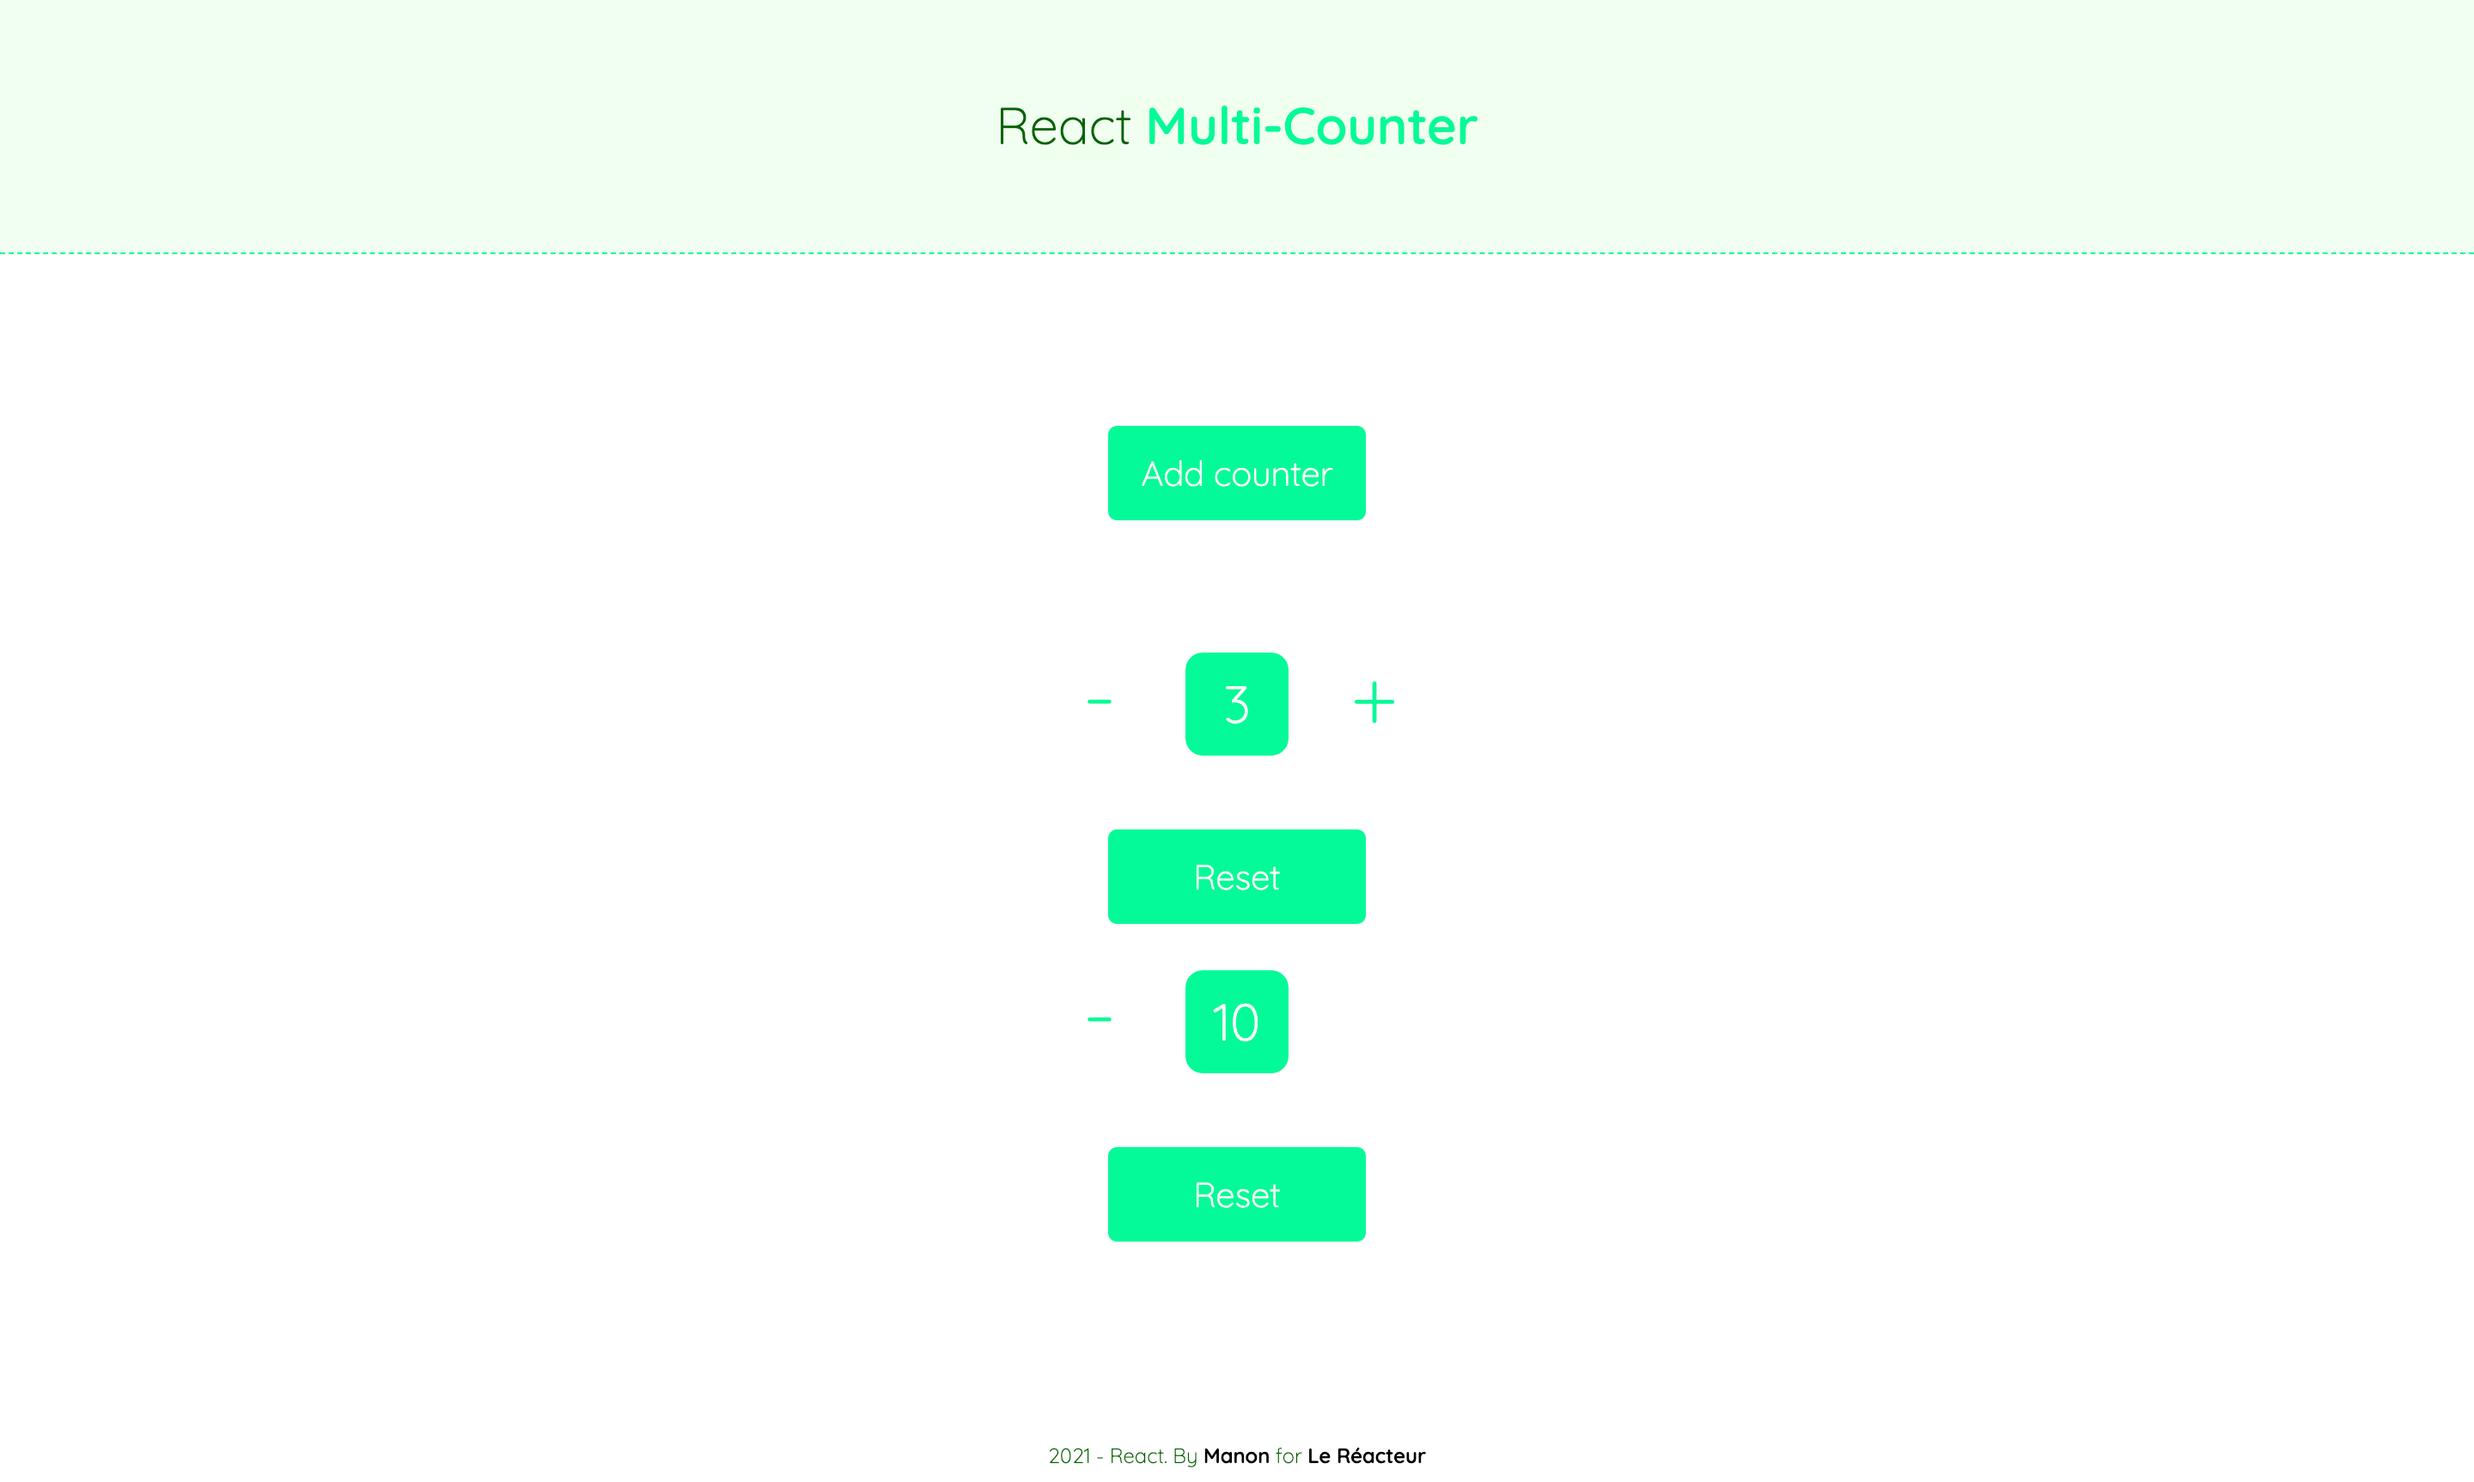
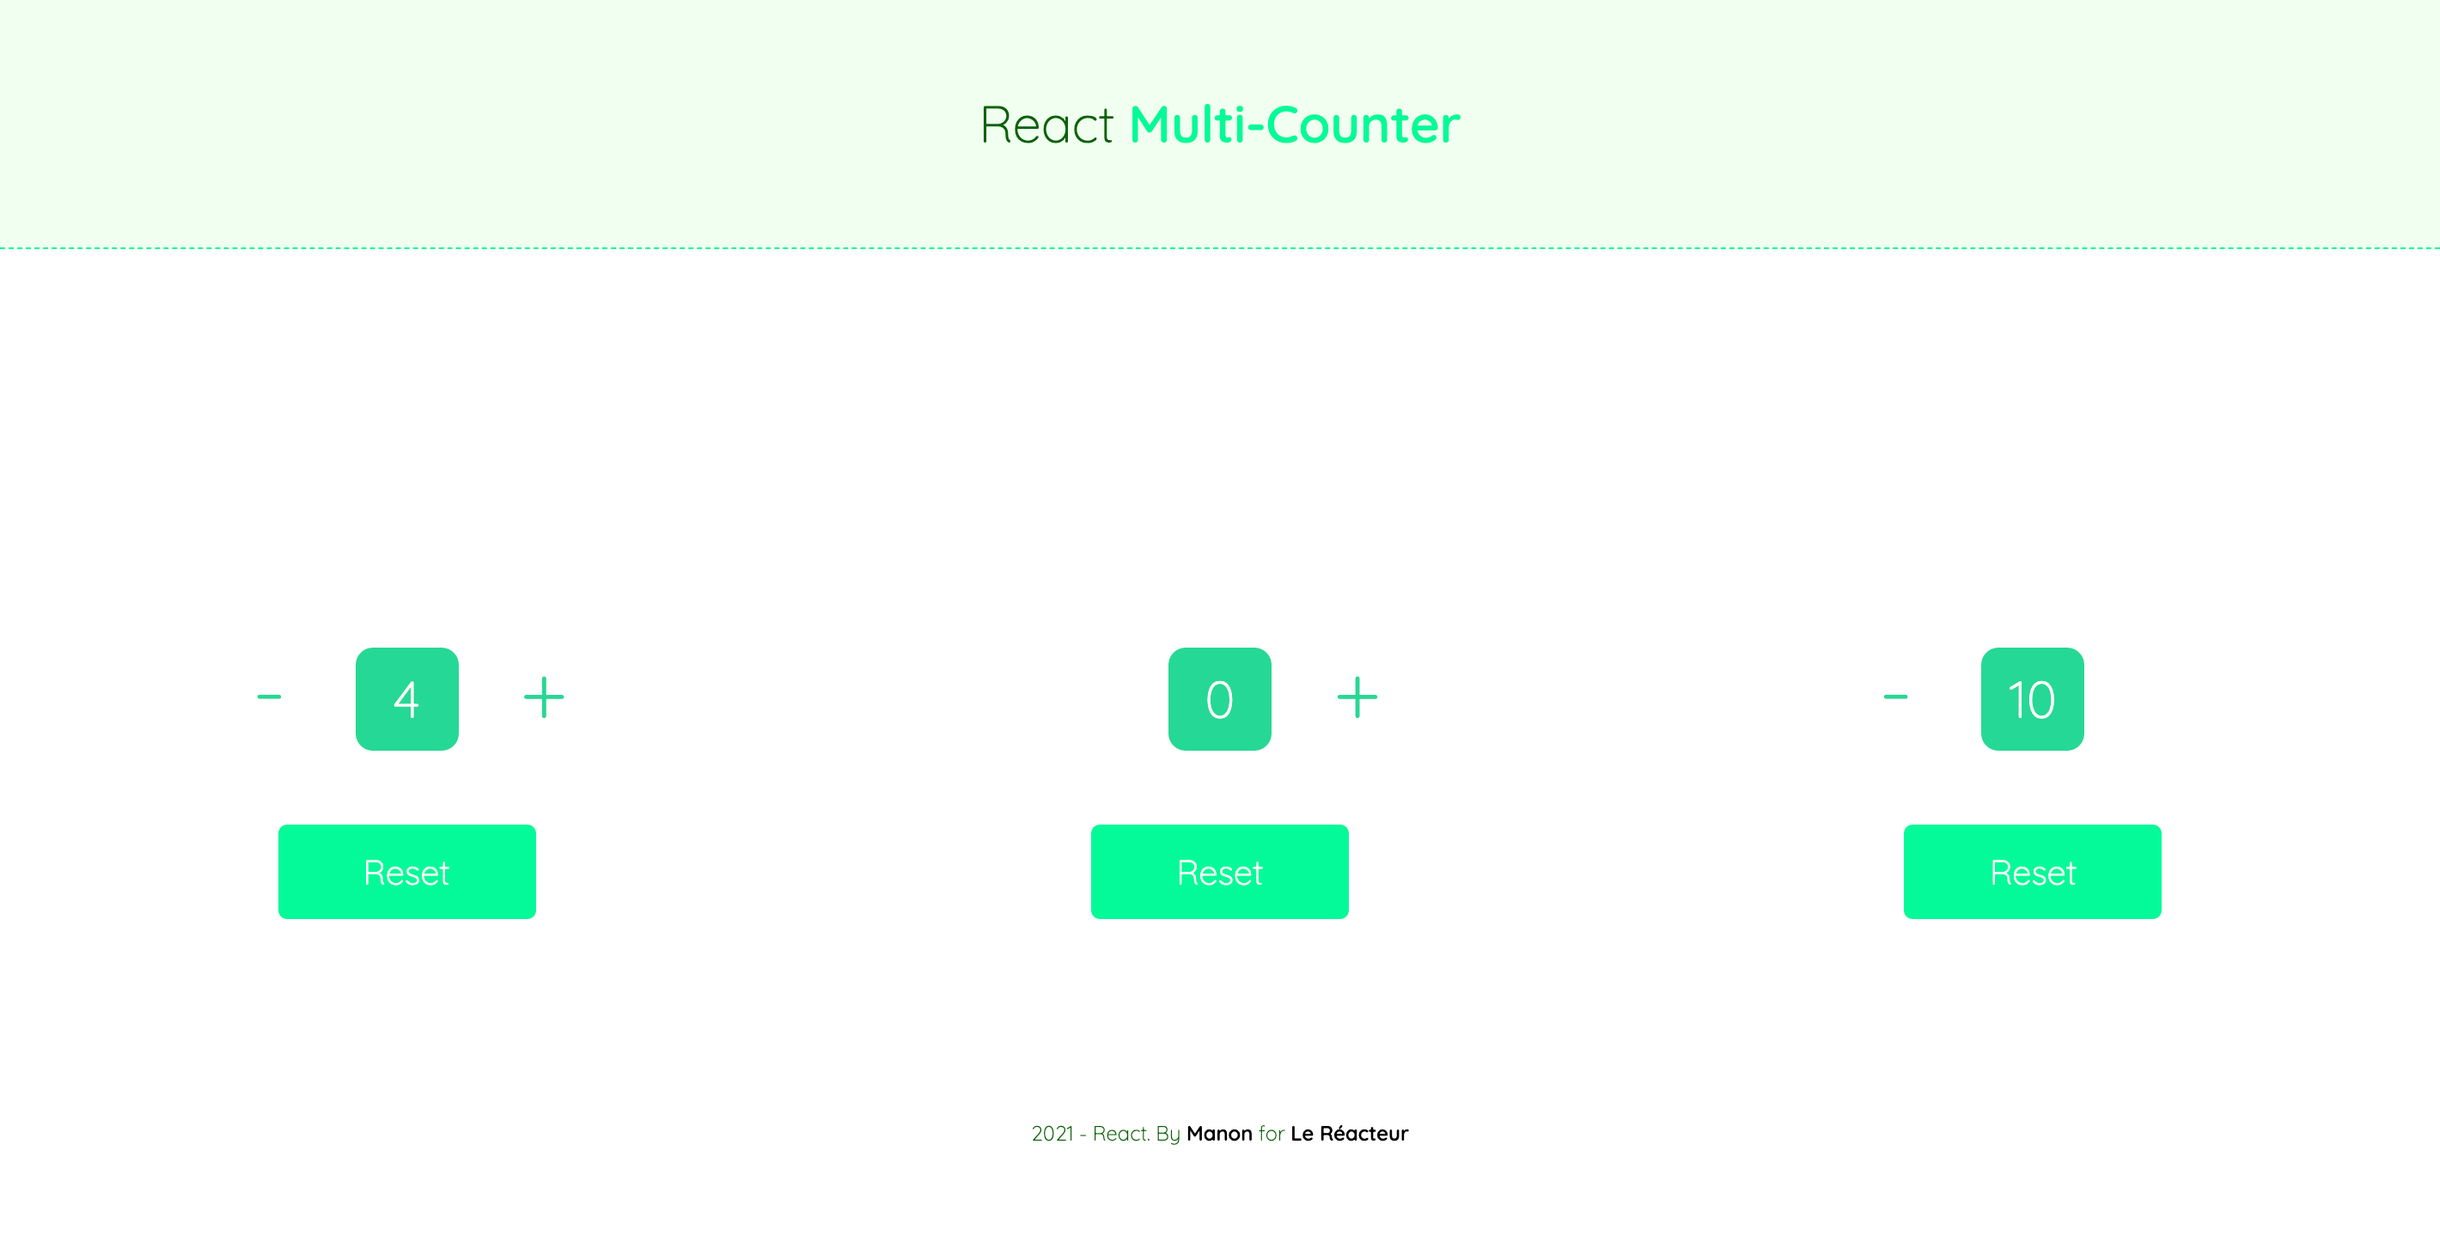
responsive & horizontal counter

diff --git a/src/App.css b/src/App.css
@@ -48,6 +48,9 @@ header .wrapper {
 }
 
 /* Counter */
+.container {
+  display: flex;
+}
 button {
   cursor: pointer;
   background-color: lawngreen;
@@ -57,7 +60,6 @@ button {
   border-radius: 5px;
   font-family: "Quicksand", sans-serif;
   font-size: 20px;
-  background-color: #00fa9a;
 }
 .btn-minus,
 .btn-plus,
@@ -69,19 +71,25 @@ button {
   width: 100px;
   height: 100px;
   background-color: white;
-  color: #00fa9a;
+  color: #28d895;
   font-size: 50px;
 }
 .btn-add-counter {
+  background-color: #00fa9a;
   margin-bottom: 50px;
   width: 150px;
 }
 .btn-reset {
+  background-color: #00fa9a;
   width: 150px;
   margin-top: 30px;
 }
+.btn-add-counter:hover,
+.btn-reset:hover {
+  opacity: 80%;
+}
 .bloc-2 span {
-  background-color: #00fa9a;
+  background-color: #28d895;
   display: inline-block;
   color: white;
   font-size: 30px;
@@ -97,7 +105,21 @@ footer {
   font-size: 12px;
   text-align: center;
   margin-top: 100px;
-  height: 30px;
+  height: 50px;
   padding: 10px;
+}
+footer p {
   line-height: 30px;
+}
+
+/* Media queries */
+@media (max-width: 860px) {
+  header {
+    margin-bottom: 50px;
+  }
+
+  /* Counter */
+  .container {
+    flex-direction: column;
+  }
 }

diff --git a/src/App.js b/src/App.js
@@ -35,12 +35,14 @@ function App() {
           Add counter
         </button>
       </div>
+      <div className="container">
+        {counter.map((count, index) => {
+          return (
+            <Counter counter={counter} setCounter={setCounter} index={index} />
+          );
+        })}
+      </div>
 
-      {counter.map((count, index) => {
-        return (
-          <Counter counter={counter} setCounter={setCounter} index={index} />
-        );
-      })}
       <Footer />
     </>
   );

diff --git a/README.md b/README.md
@@ -11,6 +11,7 @@
 - Responsive
 
 ![Multi-counter desktop](src/assets/img/multi-counter-desktop.png)
+![Multi-counter tablette](src/assets/img/multi-counter-tablette.png)
 ![Multi-counter mobile](src/assets/img/multi-counter-mobile.png)
 
 ## Languages
